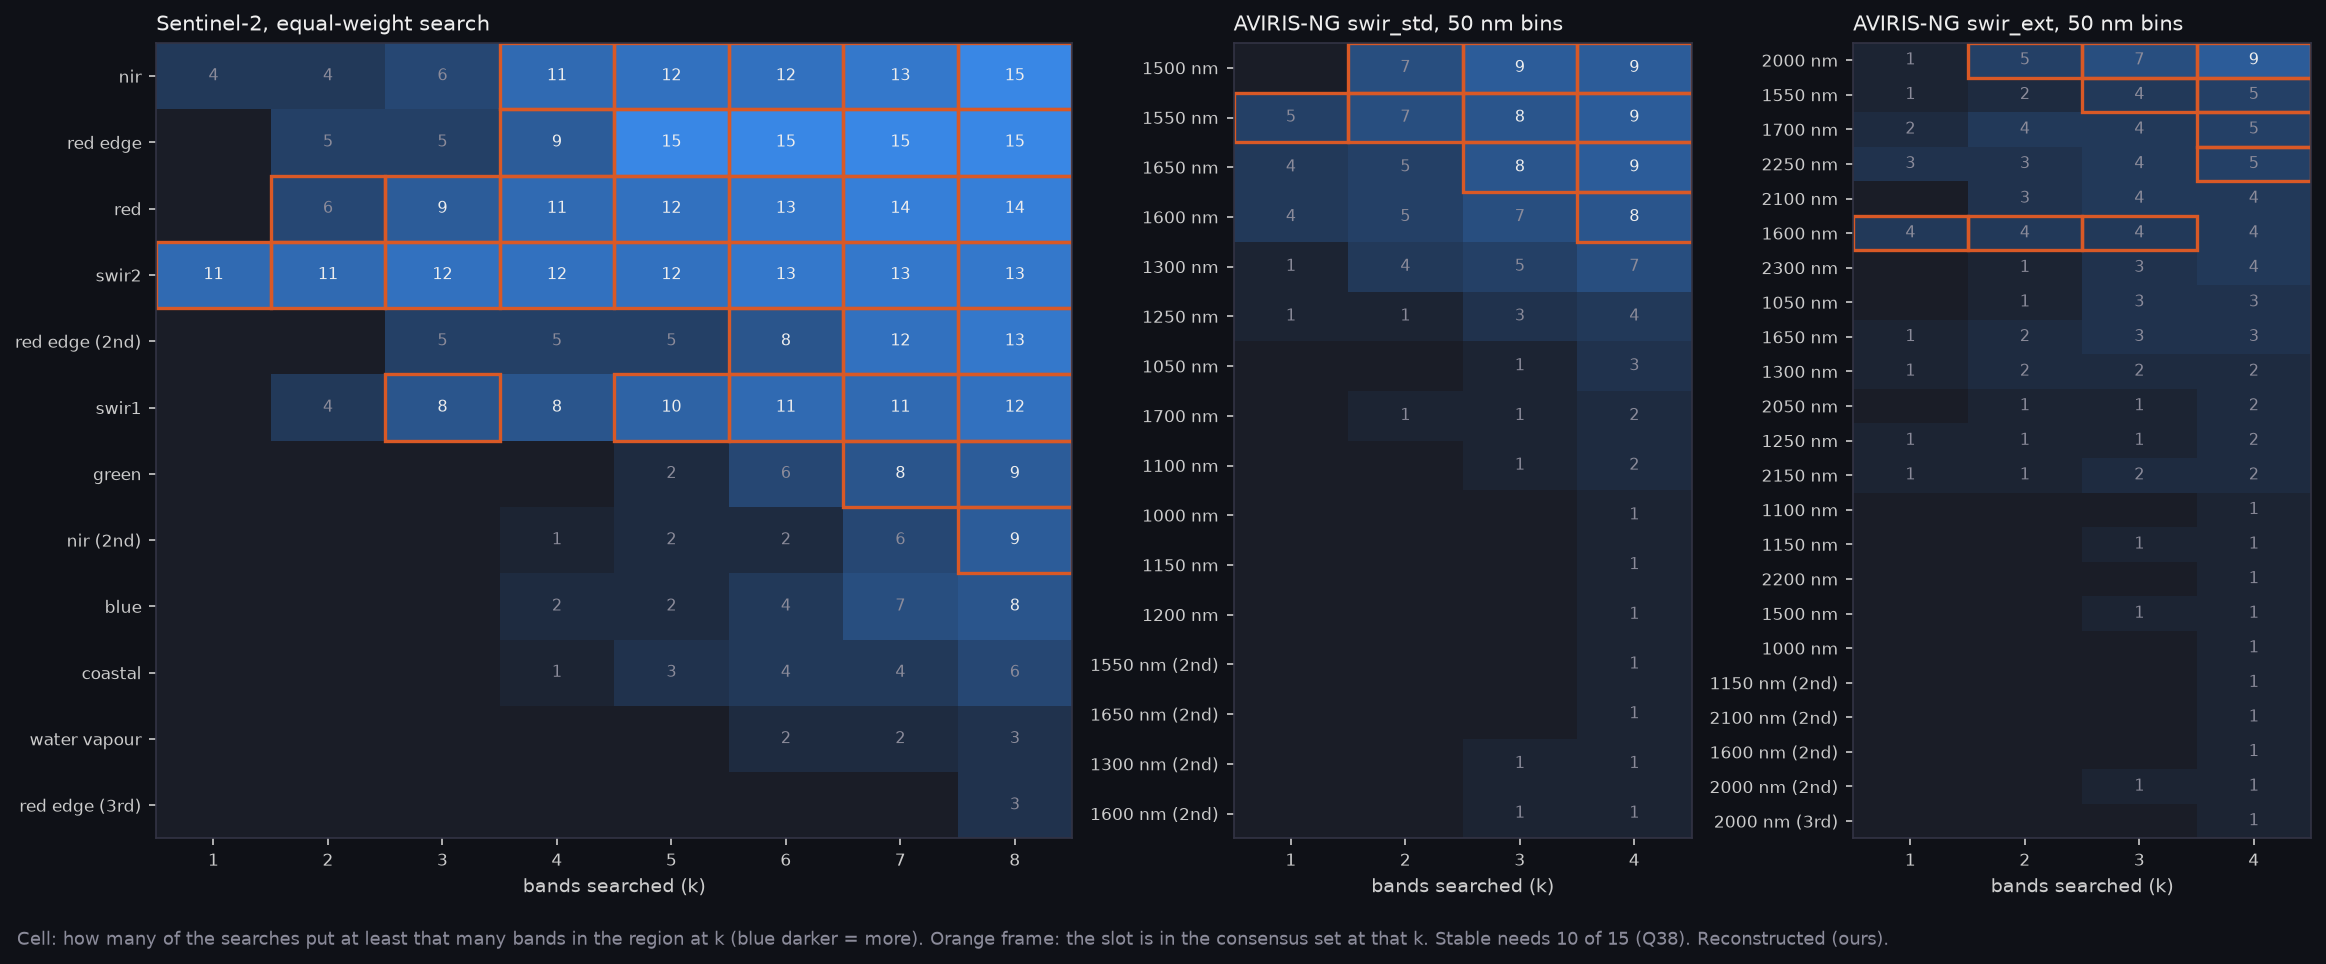
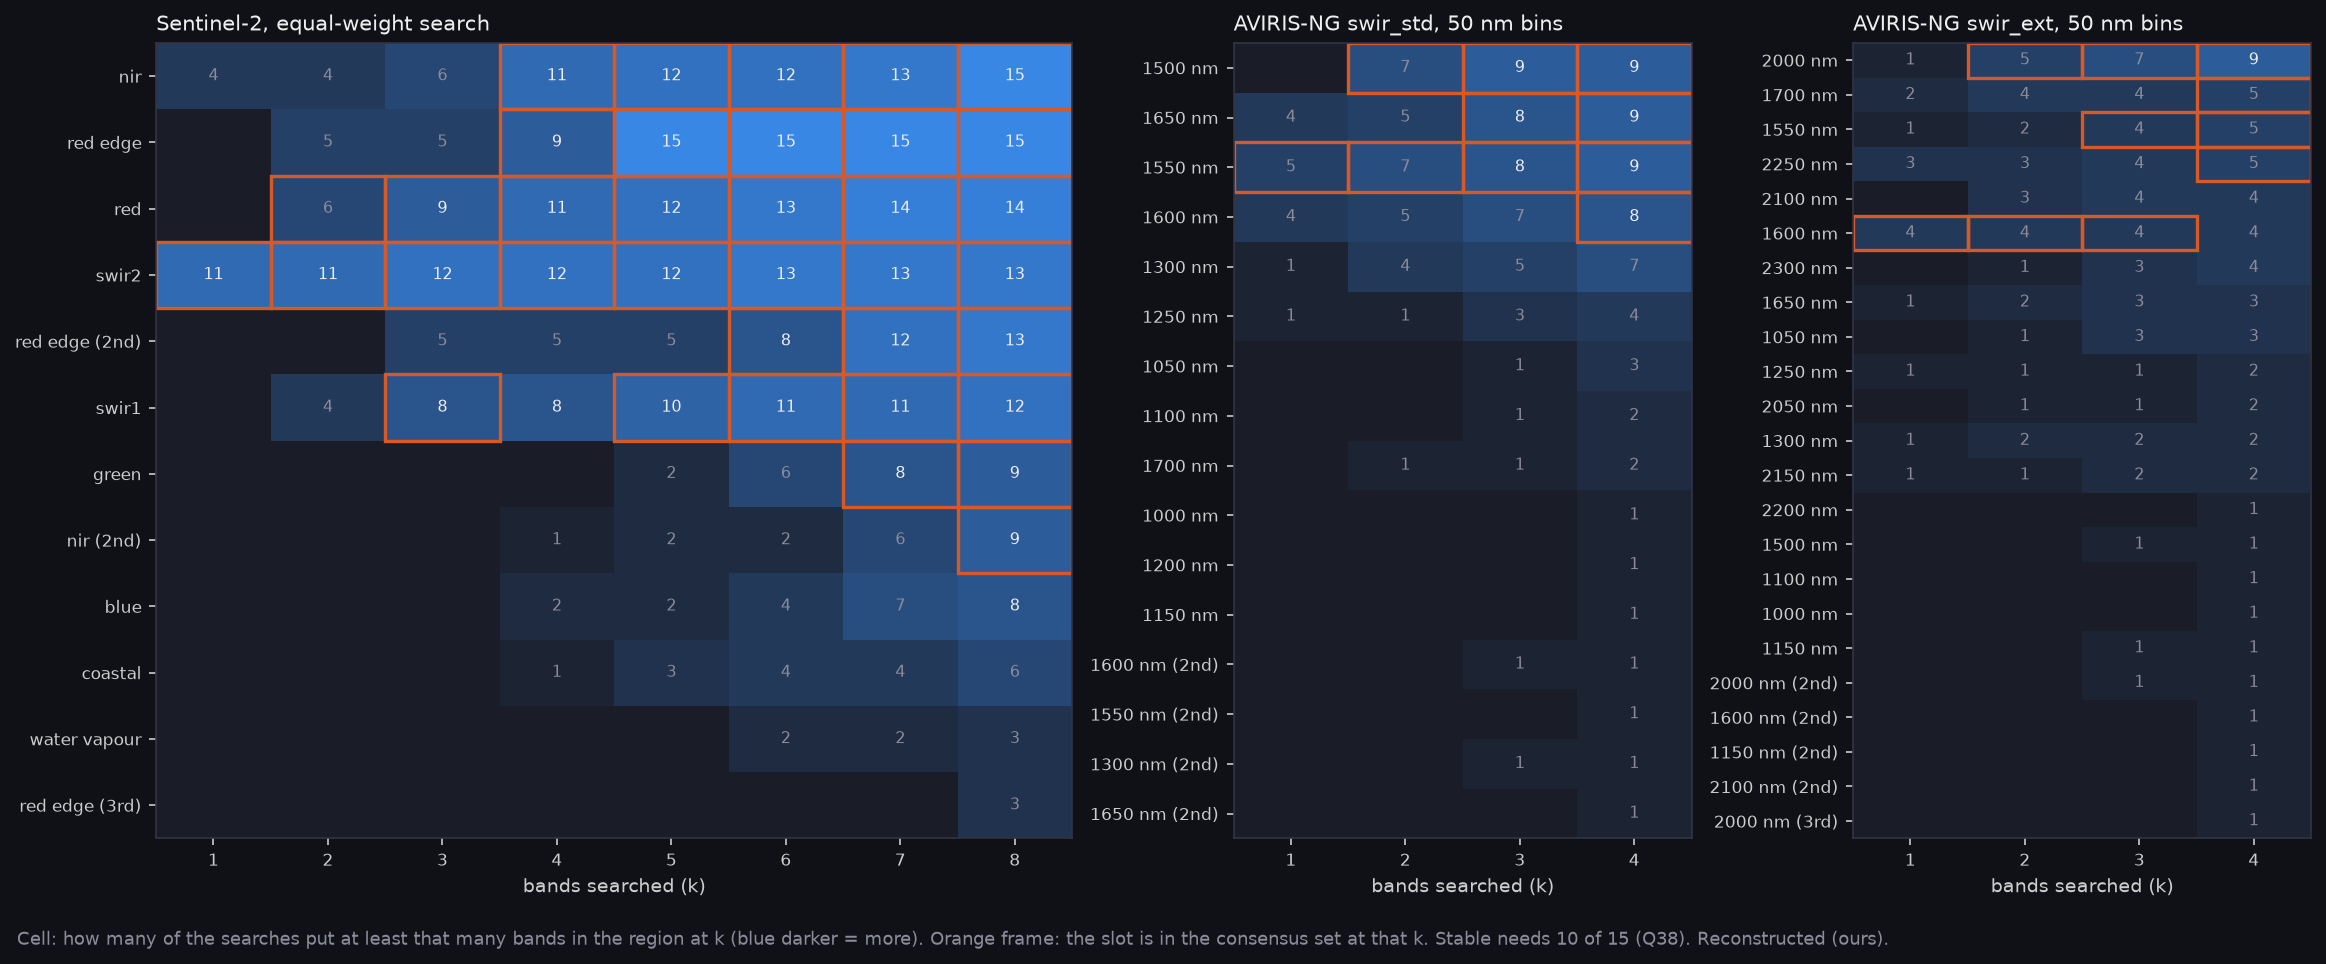
E-46: the hs re-score runs on aviris_v4; reject tasks on other pixels
sweep_hs.sh defaults to aviris_v2; the re-score must pair with hs_v4,
which ran on aviris_v4. The combiner drops any re-score task whose pixel
counts differ from hs_v4's.

Changed region(s): [[0.5262, 0.0934, 0.65, 0.2178], [0.8358, 0.0622, 0.9596, 0.1556]]

diff --git a/scripts/make_band_options.py b/scripts/make_band_options.py
@@ -136,6 +136,10 @@ def load_hs(run: Path) -> dict:
                         continue
                     out["sets"].setdefault((arm_dir.name, r["set"]), {})[t] = \
                         (float(r["metrics"]["skill_combined"]), list(r["bands"]))
+            rj = d / "result.json"
+            if rj.exists():
+                out.setdefault("pixels", {})[t] = json.loads(
+                    rj.read_text(encoding="utf-8")).get("pixels")
             sj = d / "search.json"
             if sj.exists():
                 for arm, p in json.loads(sj.read_text(encoding="utf-8")).items():
@@ -537,8 +541,12 @@ def commands(s2_rows, hs_rows) -> list[str]:
           "`narval_results/bands_consensus/` (plain copy).", "",
           "## AVIRIS-NG consensus SWIR sets (hs_v4 folds and seeds, references arm)", "",
           "```bash",
-          "ARMS=references GRID=configs/noise/p12_consensus_grid.json EXP_NAME=hs_consensus "
+          "ARMS=references GRID=configs/noise/p12_consensus_grid.json "
+          "SCRATCH_DATA=$HOME/scratch/aviris_v4 EXP_NAME=hs_consensus "
           "SUBMIT=1 bash scripts/shell/sweep_hs.sh", "```", "",
+          "`SCRATCH_DATA` must be `aviris_v4`, the pack hs_v4 ran on (`sweep_hs.sh` "
+          "defaults to aviris_v2). The combiner rejects any task whose pixel counts "
+          "differ from hs_v4's.", "",
           f"It scores {len(hs_rows)} consensus sets plus three anchors (config_c/VNIR, config_a, "
           "config_c). Copy back to `narval_results/hs_consensus/`.", "",
           "Then: `python scripts/make_band_options.py --eco-rescore narval_results/bands_consensus "
@@ -565,7 +573,16 @@ def main(argv=None) -> int:
         write_grid(hsc)
     rescore = (load_eco_rescore(args.eco_rescore, {r["k"]: r["bands"] for r in s2c})
                if args.eco_rescore else {})
-    hs_rescore = load_hs(args.hs_rescore)["sets"] if args.hs_rescore else {}
+    hs_rescore = {}
+    if args.hs_rescore:
+        rs = load_hs(args.hs_rescore)
+        bad = {t for t, px in rs.get("pixels", {}).items()
+               if px != hs.get("pixels", {}).get(t)}
+        if bad:
+            print(f"  hs re-score: {len(bad)} tasks ran on other pixels than hs_v4 "
+                  f"(wrong pack?), dropped: {sorted(bad)}")
+        hs_rescore = {k: {t: v for t, v in d.items() if t not in bad}
+                      for k, d in rs["sets"].items()}
 
     s2_recs = judge(s2_options(eco, s2c, rescore, info))
     sw_recs = judge(swir_options(hs, hsc, hs_rescore))

diff --git a/docs/results/p12_bands/options.md b/docs/results/p12_bands/options.md
@@ -36,15 +36,15 @@ Consensus sets awaiting their re-score (no score until then):
 | option | bands | score ± SE | gap to best (paired) | chain, cost | pros | cons |
 |---|---|---|---|---|---|---|
 | **reference: config_c** | 490/40, 560/35, 665/30, 705/20, 740/20, 865/30, 1610/90@ext, 2190/180@ext | 0.2881 ± 0.0141 | 0.0000 ± 0.0000 | silicon + extended InGaAs, high | best combined score; SWIR1 present: cloud/snow discrimination, and the contrast SWIR moisture metrics use; SWIR2 present: cellulose/lignin sensitivity, dark-target aerosol; 8 of 8 Sentinel-2 centres matched: cross-calibration, S2 archive | high cost: main cost/SWaP driver; much higher dark current and deeper TEC cooling; VNIR and SWIR are separate chains: band-to-band registration risk |
-| **swir_ext search, k3** | 490/40, 560/35, 665/30, 705/20, 740/20, 865/30, 2270/40@ext, 1050/60@ext, 1660/80@ext | 0.2875 ± 0.0180 | 0.0006 ± 0.0067 | silicon + extended InGaAs, high | tied with the best (paired gap 0.0006 +- 0.0067); SWIR1 present: cloud/snow discrimination, and the contrast SWIR moisture metrics use; SWIR2 present: cellulose/lignin sensitivity, dark-target aerosol; 6 of 8 Sentinel-2 centres matched: cross-calibration, S2 archive | high cost: main cost/SWaP driver; much higher dark current and deeper TEC cooling; VNIR and SWIR are separate chains: band-to-band registration risk; unstable: 15 distinct sets in 15 searches; score of the search procedure (each fold's own set), not of this fixed set: re-score pending |
-| **swir_ext search, k4** | 490/40, 560/35, 665/30, 705/20, 740/20, 865/30, 1710/60@ext, 2280/80@ext, 2270/20@ext, 2020/80@ext | 0.2870 ± 0.0178 | 0.0011 ± 0.0069 | silicon + extended InGaAs, high | tied with the best (paired gap 0.0011 +- 0.0069); SWIR1 present: cloud/snow discrimination, and the contrast SWIR moisture metrics use; SWIR2 present: cellulose/lignin sensitivity, dark-target aerosol; 6 of 8 Sentinel-2 centres matched: cross-calibration, S2 archive | high cost: main cost/SWaP driver; much higher dark current and deeper TEC cooling; VNIR and SWIR are separate chains: band-to-band registration risk; unstable: 15 distinct sets in 15 searches; score of the search procedure (each fold's own set), not of this fixed set: re-score pending |
+| **swir_ext search, k3** | 490/40, 560/35, 665/30, 705/20, 740/20, 865/30, 1590/20@ext, 1990/20@ext, 2280/20@ext | 0.2875 ± 0.0180 | 0.0006 ± 0.0067 | silicon + extended InGaAs, high | tied with the best (paired gap 0.0006 +- 0.0067); SWIR1 present: cloud/snow discrimination, and the contrast SWIR moisture metrics use; SWIR2 present: cellulose/lignin sensitivity, dark-target aerosol; 6 of 8 Sentinel-2 centres matched: cross-calibration, S2 archive | high cost: main cost/SWaP driver; much higher dark current and deeper TEC cooling; VNIR and SWIR are separate chains: band-to-band registration risk; unstable: 15 distinct sets in 15 searches; score of the search procedure (each fold's own set), not of this fixed set: re-score pending |
+| **swir_ext search, k4** | 490/40, 560/35, 665/30, 705/20, 740/20, 865/30, 2260/60@ext, 2010/40@ext, 1550/80@ext, 2060/40@ext | 0.2870 ± 0.0178 | 0.0011 ± 0.0069 | silicon + extended InGaAs, high | tied with the best (paired gap 0.0011 +- 0.0069); SWIR1 present: cloud/snow discrimination, and the contrast SWIR moisture metrics use; SWIR2 present: cellulose/lignin sensitivity, dark-target aerosol; 6 of 8 Sentinel-2 centres matched: cross-calibration, S2 archive | high cost: main cost/SWaP driver; much higher dark current and deeper TEC cooling; VNIR and SWIR are separate chains: band-to-band registration risk; unstable: 15 distinct sets in 15 searches; score of the search procedure (each fold's own set), not of this fixed set: re-score pending |
 | **reference: sensor_mantis_ms_plus_swir** | 490/65, 560/35, 665/30, 705/15, 740/15, 865/20, 1240/20@std, 1550/40@std, 1610/40@std, 1680/40@std | 0.2853 ± 0.0170 | 0.0029 ± 0.0068 | silicon + standard InGaAs, moderate | tied with the best (paired gap 0.0029 +- 0.0068); SWIR1 present: cloud/snow discrimination, and the contrast SWIR moisture metrics use; 7 of 8 Sentinel-2 centres matched: cross-calibration, S2 archive | moderate cost: adds a SWIR chain on a COTS detector that cuts off near 1.7 um; VNIR and SWIR are separate chains: band-to-band registration risk; no SWIR2: no dark-target aerosol pairing, weak dry-matter leverage |
-| **swir_ext search, k2** | 490/40, 560/35, 665/30, 705/20, 740/20, 865/30, 1250/20@ext, 2020/40@ext | 0.2792 ± 0.0204 | 0.0090 ± 0.0106 | silicon + extended InGaAs, high | tied with the best (paired gap 0.0090 +- 0.0106); 6 of 8 Sentinel-2 centres matched: cross-calibration, S2 archive | high cost: main cost/SWaP driver; much higher dark current and deeper TEC cooling; VNIR and SWIR are separate chains: band-to-band registration risk; no SWIR1: weak cloud/snow discrimination (brief section 3); no SWIR2: no dark-target aerosol pairing, weak dry-matter leverage; unstable: 15 distinct sets in 15 searches; score of the search procedure (each fold's own set), not of this fixed set: re-score pending |
-| swir_std search, k2 | 490/40, 560/35, 665/30, 705/20, 740/20, 865/30, 1590/20@std, 1500/20@std | 0.2788 ± 0.0184 | 0.0094 ± 0.0081 | silicon + standard InGaAs, moderate | SWIR1 present: cloud/snow discrimination, and the contrast SWIR moisture metrics use; 6 of 8 Sentinel-2 centres matched: cross-calibration, S2 archive | 0.0094 +- 0.0081 below the best (paired); moderate cost: adds a SWIR chain on a COTS detector that cuts off near 1.7 um; VNIR and SWIR are separate chains: band-to-band registration risk; no SWIR2: no dark-target aerosol pairing, weak dry-matter leverage; unstable: 15 distinct sets in 15 searches; score of the search procedure (each fold's own set), not of this fixed set: re-score pending |
+| **swir_ext search, k2** | 490/40, 560/35, 665/30, 705/20, 740/20, 865/30, 2270/40@ext, 1690/40@ext | 0.2792 ± 0.0204 | 0.0090 ± 0.0106 | silicon + extended InGaAs, high | tied with the best (paired gap 0.0090 +- 0.0106); SWIR1 present: cloud/snow discrimination, and the contrast SWIR moisture metrics use; SWIR2 present: cellulose/lignin sensitivity, dark-target aerosol; 6 of 8 Sentinel-2 centres matched: cross-calibration, S2 archive | high cost: main cost/SWaP driver; much higher dark current and deeper TEC cooling; VNIR and SWIR are separate chains: band-to-band registration risk; unstable: 15 distinct sets in 15 searches; score of the search procedure (each fold's own set), not of this fixed set: re-score pending |
+| swir_std search, k2 | 490/40, 560/35, 665/30, 705/20, 740/20, 865/30, 1580/80@std, 1500/20@std | 0.2788 ± 0.0184 | 0.0094 ± 0.0081 | silicon + standard InGaAs, moderate | SWIR1 present: cloud/snow discrimination, and the contrast SWIR moisture metrics use; 6 of 8 Sentinel-2 centres matched: cross-calibration, S2 archive | 0.0094 +- 0.0081 below the best (paired); moderate cost: adds a SWIR chain on a COTS detector that cuts off near 1.7 um; VNIR and SWIR are separate chains: band-to-band registration risk; no SWIR2: no dark-target aerosol pairing, weak dry-matter leverage; unstable: 15 distinct sets in 15 searches; score of the search procedure (each fold's own set), not of this fixed set: re-score pending |
 | **swir_std search, k4** | 490/40, 560/35, 665/30, 705/20, 740/20, 865/30, 1550/20@std, 1670/60@std, 1510/20@std, 1310/40@std | 0.2786 ± 0.0252 | 0.0096 ± 0.0163 | silicon + standard InGaAs, moderate | tied with the best (paired gap 0.0096 +- 0.0163); SWIR1 present: cloud/snow discrimination, and the contrast SWIR moisture metrics use; 6 of 8 Sentinel-2 centres matched: cross-calibration, S2 archive | moderate cost: adds a SWIR chain on a COTS detector that cuts off near 1.7 um; VNIR and SWIR are separate chains: band-to-band registration risk; no SWIR2: no dark-target aerosol pairing, weak dry-matter leverage; unstable: 15 distinct sets in 15 searches; score of the search procedure (each fold's own set), not of this fixed set: re-score pending |
 | reference: config_b | 490/40, 560/35, 665/30, 705/20, 740/20, 865/30, 1240/20@std, 1375/30@std, 1610/90@std | 0.2780 ± 0.0211 | 0.0101 ± 0.0084 | silicon + standard InGaAs, moderate | SWIR1 present: cloud/snow discrimination, and the contrast SWIR moisture metrics use; 7 of 8 Sentinel-2 centres matched: cross-calibration, S2 archive | 0.0101 +- 0.0084 below the best (paired); moderate cost: adds a SWIR chain on a COTS detector that cuts off near 1.7 um; VNIR and SWIR are separate chains: band-to-band registration risk; no SWIR2: no dark-target aerosol pairing, weak dry-matter leverage |
 | reference: config_a | 490/40, 560/35, 665/30, 705/20, 740/20, 865/30, 1610/90@std | 0.2776 ± 0.0181 | 0.0106 ± 0.0072 | silicon + standard InGaAs, moderate | SWIR1 present: cloud/snow discrimination, and the contrast SWIR moisture metrics use; 7 of 8 Sentinel-2 centres matched: cross-calibration, S2 archive | 0.0106 +- 0.0072 below the best (paired); moderate cost: adds a SWIR chain on a COTS detector that cuts off near 1.7 um; VNIR and SWIR are separate chains: band-to-band registration risk; no SWIR2: no dark-target aerosol pairing, weak dry-matter leverage |
-| **swir_std search, k3** | 490/40, 560/35, 665/30, 705/20, 740/20, 865/30, 1590/20@std, 1500/20@std, 1600/100@std | 0.2755 ± 0.0232 | 0.0127 ± 0.0144 | silicon + standard InGaAs, moderate | tied with the best (paired gap 0.0127 +- 0.0144); SWIR1 present: cloud/snow discrimination, and the contrast SWIR moisture metrics use; 7 of 8 Sentinel-2 centres matched: cross-calibration, S2 archive | moderate cost: adds a SWIR chain on a COTS detector that cuts off near 1.7 um; VNIR and SWIR are separate chains: band-to-band registration risk; no SWIR2: no dark-target aerosol pairing, weak dry-matter leverage; unstable: 15 distinct sets in 15 searches; score of the search procedure (each fold's own set), not of this fixed set: re-score pending |
+| **swir_std search, k3** | 490/40, 560/35, 665/30, 705/20, 740/20, 865/30, 1230/60@std, 1520/40@std, 1300/20@std | 0.2755 ± 0.0232 | 0.0127 ± 0.0144 | silicon + standard InGaAs, moderate | tied with the best (paired gap 0.0127 +- 0.0144); 6 of 8 Sentinel-2 centres matched: cross-calibration, S2 archive | moderate cost: adds a SWIR chain on a COTS detector that cuts off near 1.7 um; VNIR and SWIR are separate chains: band-to-band registration risk; no SWIR1: weak cloud/snow discrimination (brief section 3); no SWIR2: no dark-target aerosol pairing, weak dry-matter leverage; unstable: 15 distinct sets in 15 searches; score of the search procedure (each fold's own set), not of this fixed set: re-score pending |
 | reference: config_c/VNIR | 490/40, 560/35, 665/30, 705/20, 740/20, 865/30 | 0.2719 ± 0.0228 | 0.0162 ± 0.0129 | silicon only, low | low cost: an extra band costs filter area and pixels, little else; 6 of 8 Sentinel-2 centres matched: cross-calibration, S2 archive | 0.0162 +- 0.0129 below the best (paired); no SWIR1: weak cloud/snow discrimination (brief section 3) |
 
 Consensus sets awaiting their re-score (no score until then):

diff --git a/docs/results/p12_bands/rescore_commands.md b/docs/results/p12_bands/rescore_commands.md
@@ -20,8 +20,10 @@ Copy back `~/scratch/fw_experiments/bands_consensus/` to `narval_results/bands_c
 ## AVIRIS-NG consensus SWIR sets (hs_v4 folds and seeds, references arm)
 
 ```bash
-ARMS=references GRID=configs/noise/p12_consensus_grid.json EXP_NAME=hs_consensus SUBMIT=1 bash scripts/shell/sweep_hs.sh
+ARMS=references GRID=configs/noise/p12_consensus_grid.json SCRATCH_DATA=$HOME/scratch/aviris_v4 EXP_NAME=hs_consensus SUBMIT=1 bash scripts/shell/sweep_hs.sh
 ```
+
+`SCRATCH_DATA` must be `aviris_v4`, the pack hs_v4 ran on (`sweep_hs.sh` defaults to aviris_v2). The combiner rejects any task whose pixel counts differ from hs_v4's.
 
 It scores 8 consensus sets plus three anchors (config_c/VNIR, config_a, config_c). Copy back to `narval_results/hs_consensus/`.
 
